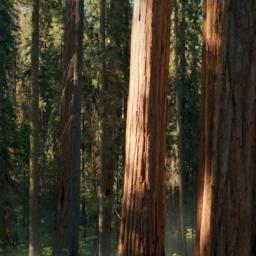
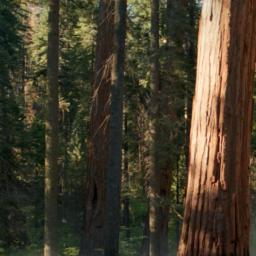
fix: [gomb] crop logic fix

diff --git a/gomb/domain/model/image.go b/gomb/domain/model/image.go
@@ -50,15 +50,21 @@ func (i *Image) SquareTrim(size int) Image {
 	width := i.img.Bounds().Max.X
 	height := i.img.Bounds().Max.Y
 
+	// 短辺を基に正方形を作成
 	shorter := min(width, height)
 
-	// 左上の座標
+	// トリミングする正方形の左上座標を計算
 	top := (height - shorter) / 2
 	left := (width - shorter) / 2
 
+	// 新しい画像を作成
 	newImg := image.NewRGBA(image.Rect(0, 0, size, size))
 
-	draw.BiLinear.Scale(newImg, newImg.Bounds(), i.img, image.Rect(left, top, width, height), draw.Over, nil)
+	// 元の画像から正方形部分を切り出し、新しいサイズにリサイズ
+	srcSub := image.NewRGBA(image.Rect(0, 0, shorter, shorter))
+	draw.Draw(srcSub, srcSub.Bounds(), i.img, image.Point{X: left, Y: top}, draw.Src)
+	draw.BiLinear.Scale(newImg, newImg.Bounds(), srcSub, srcSub.Bounds(), draw.Over, nil)
+
 	return Image{
 		img: newImg,
 	}

diff --git a/gomb/application/thumbnail.go b/gomb/application/thumbnail.go
@@ -52,10 +52,8 @@ func (t *thumbnailApplication) GenerateAndPutThumbnail(ctx context.Context, s3Ke
 		return fmt.Errorf("failed thumbnail.ToContent. s3Key: %s, err: %w", s3Key, err)
 	}
 
-	thumbnailS3Key := fmt.Sprintf("%s/%s", thumbnailPathPrefix, s3Key)
-
-	if err := t.storageRepo.SaveContent(ctx, thumbnailS3Key, thumbnailContent); err != nil {
-		return fmt.Errorf("failed save thumbnail. thumbnailS3Key: %s, err: %w", thumbnailS3Key, err)
+	if err := t.storageRepo.SaveContent(ctx, thumbnailPathPrefix, thumbnailContent); err != nil {
+		return fmt.Errorf("failed save thumbnail. thumbnailPathPrefix: %s, err: %w", thumbnailPathPrefix, err)
 	}
 
 	return nil
